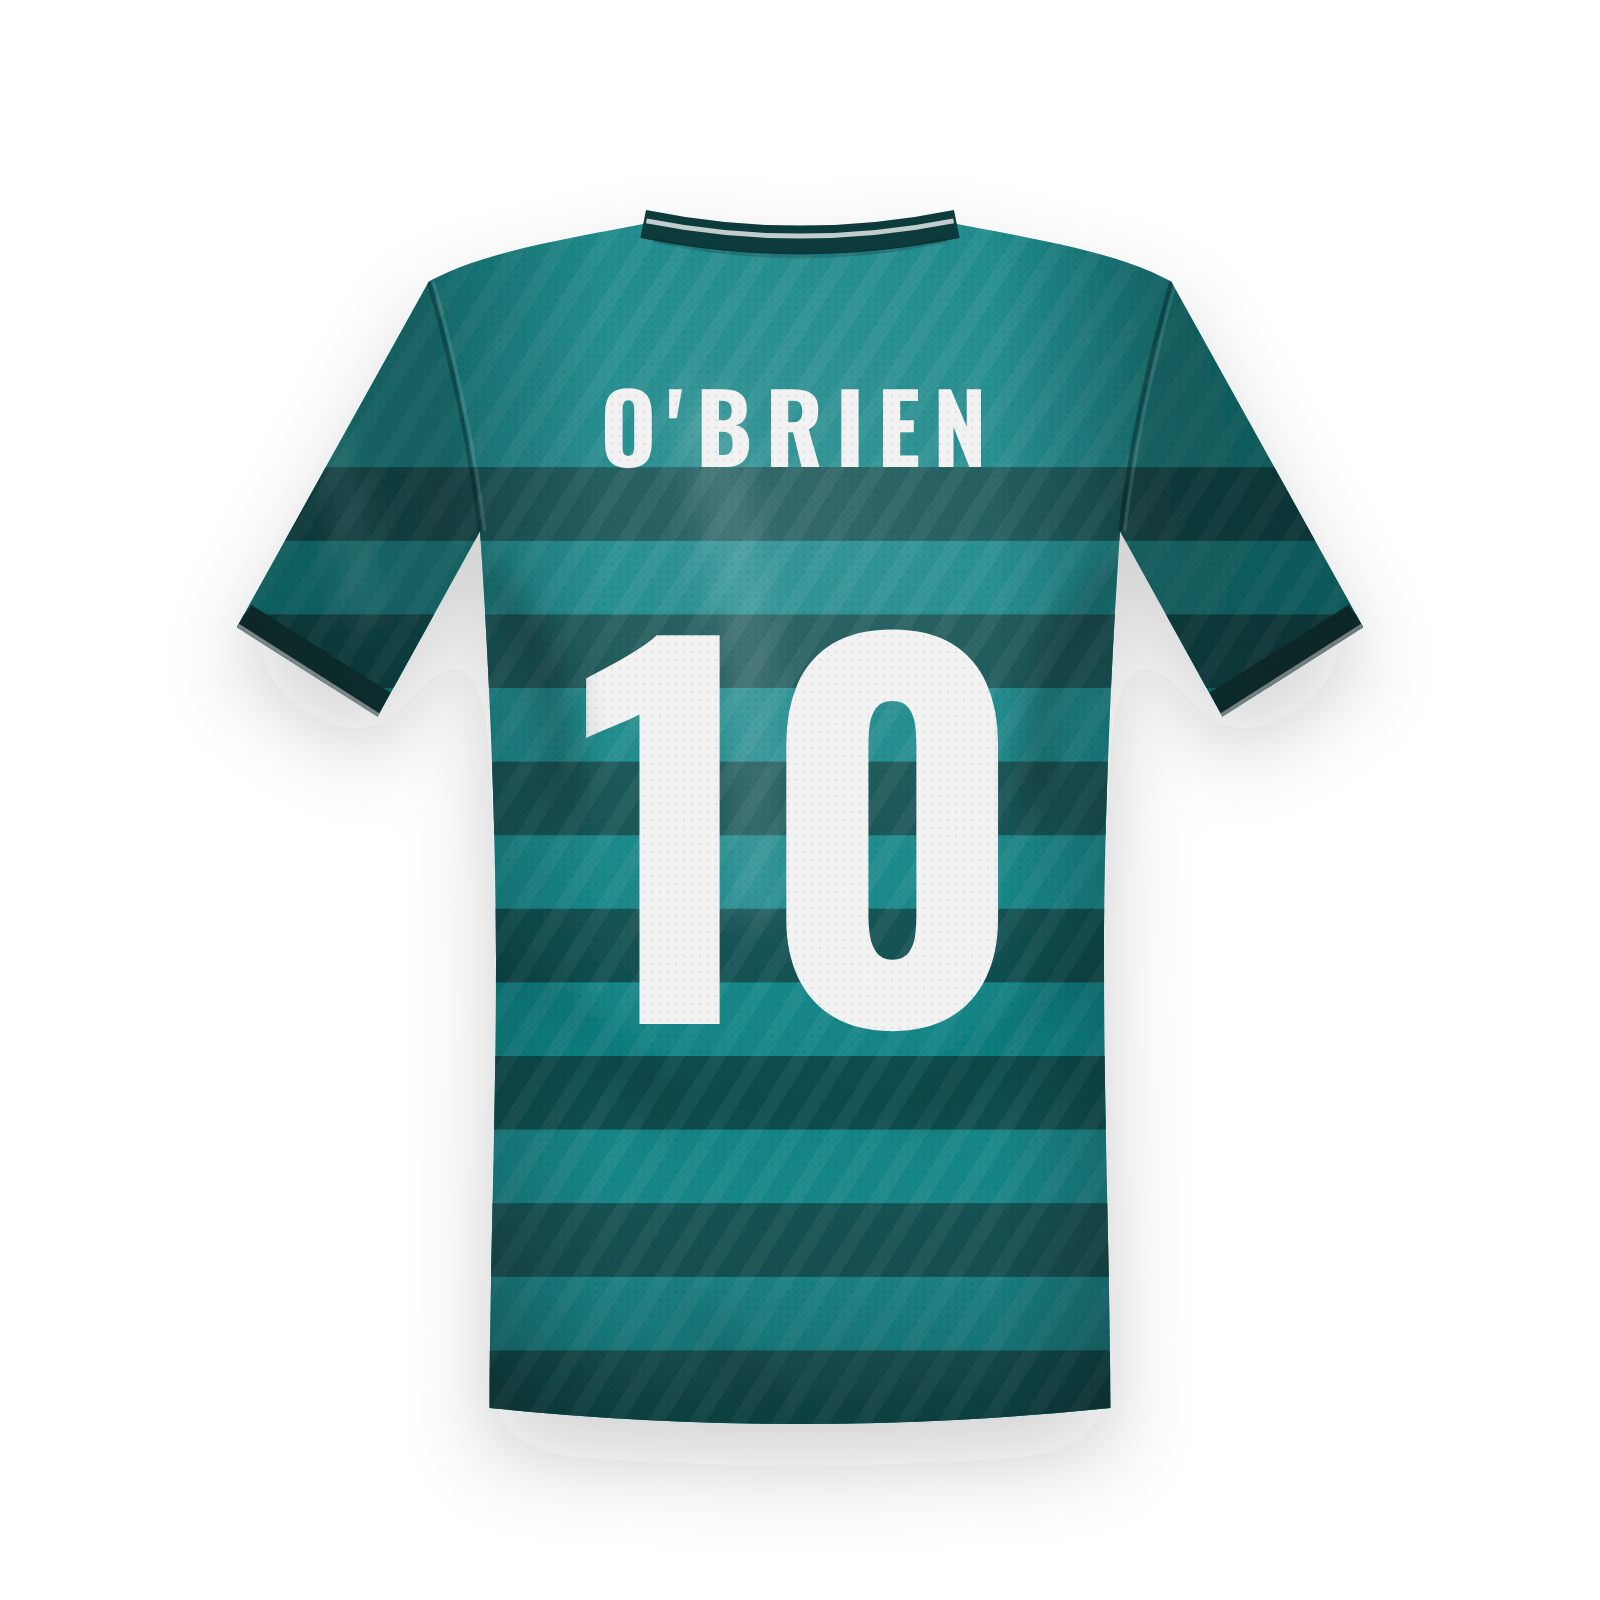
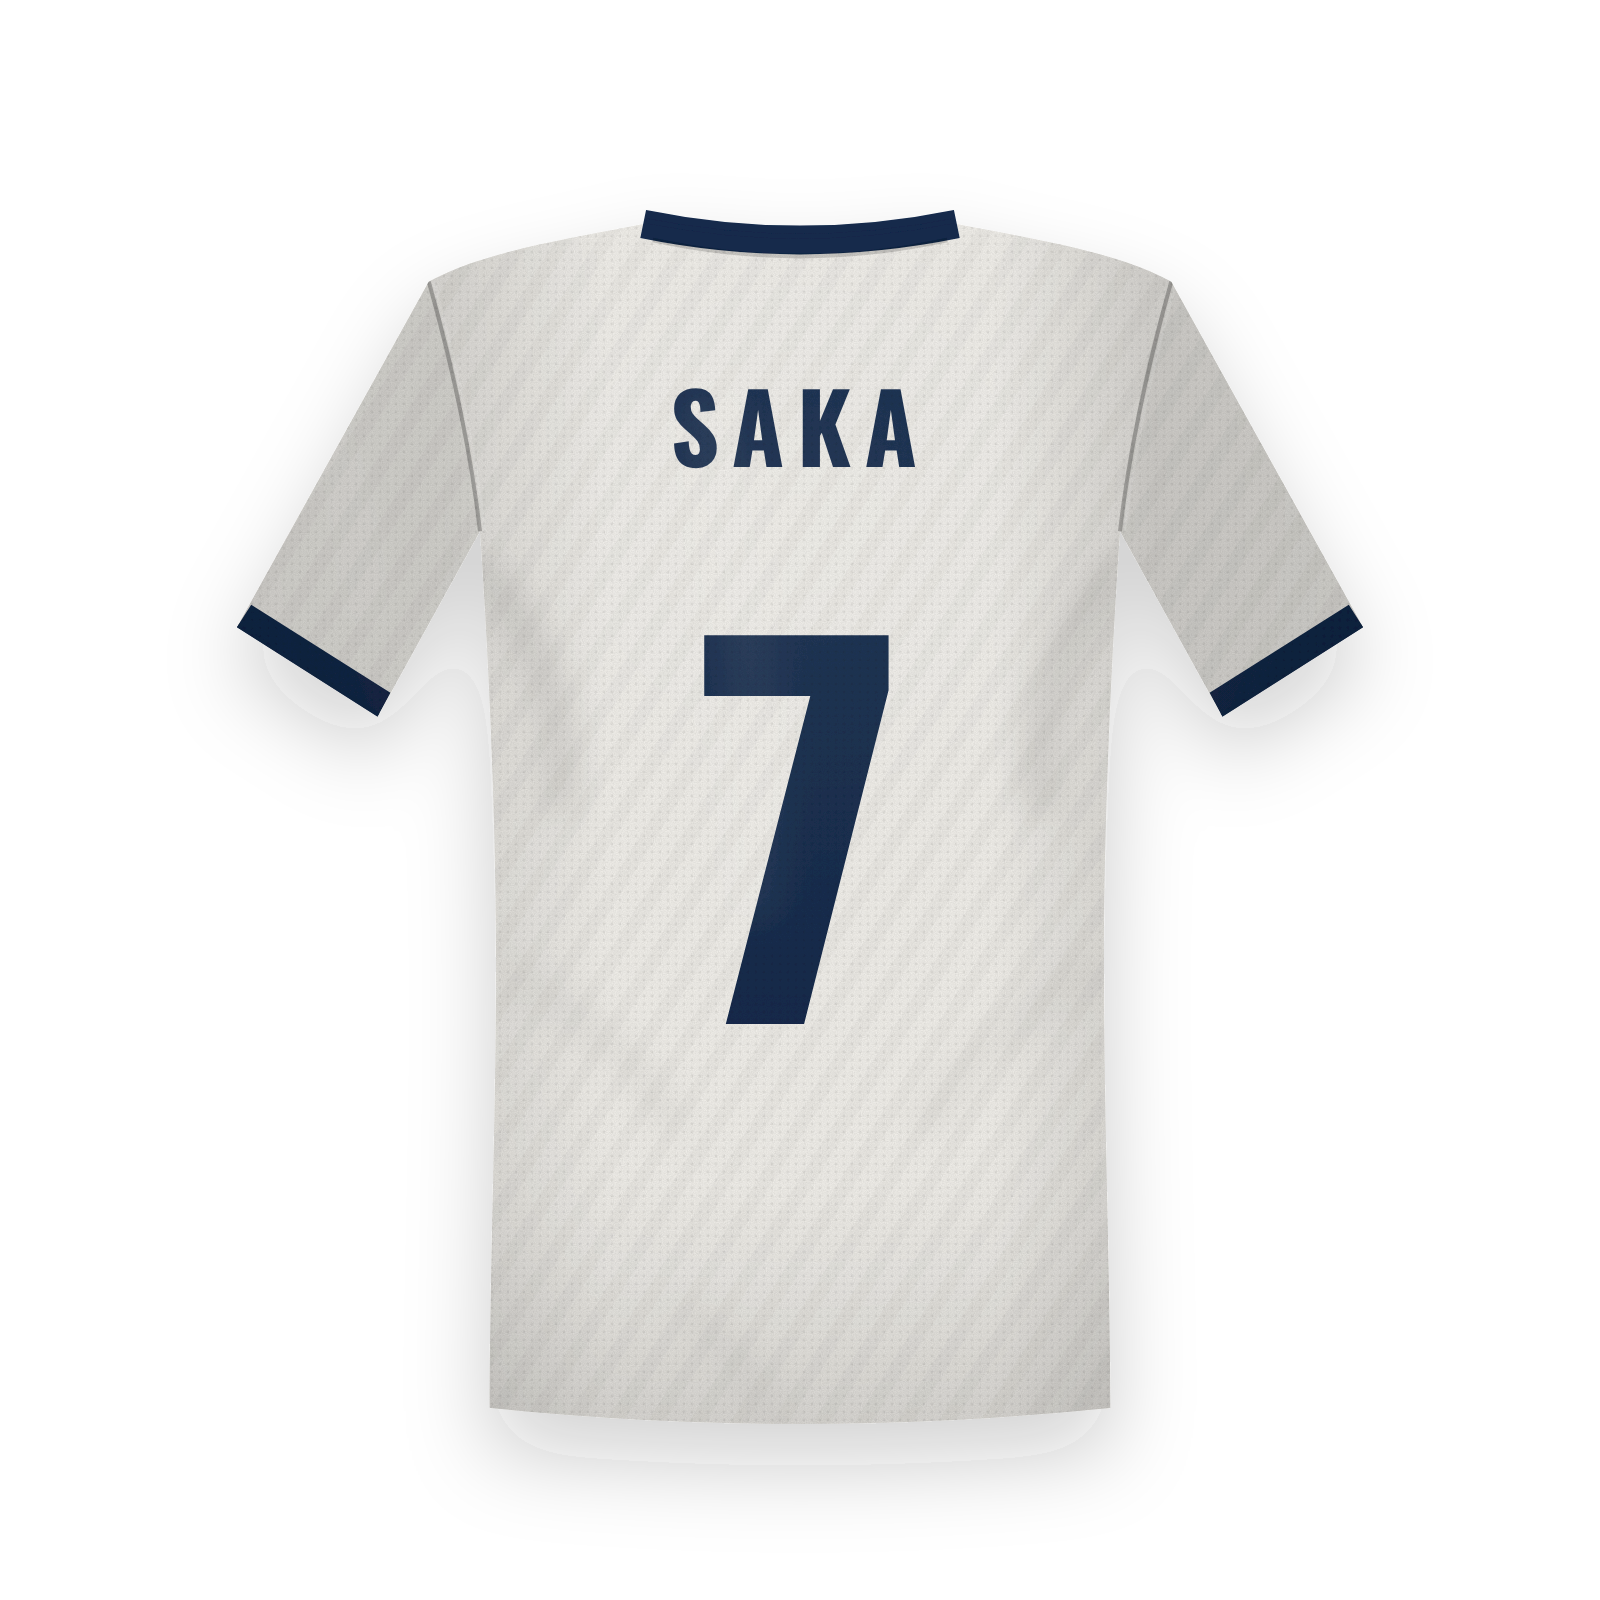
Preview on the real kit: front first, turns to the back and prints the name on the photo
With a blank back photo (metafield kit_printer.back_image) the box shows the kit's own pictures, like a club
shop: it turns over as soon as the buyer starts on a name and prints it in the same place and font as the
product shots. Without one, the drawn shirt. Bigger layout, Name and Number side by side, Front/Back toggle.
Capital City's third kit is white with SAKA 7; light shirts get softer shading.

Changed region(s): [[0.1562, 0.125, 0.8438, 0.9062]]

diff --git a/extensions/kit-printer-block/assets/kit-printer.css b/extensions/kit-printer-block/assets/kit-printer.css
@@ -1,19 +1,37 @@
-.kp { margin: 1rem 0; padding: 1rem; border: 1px solid rgba(0,0,0,.15); border-radius: 8px; }
-.kp__heading { margin: 0 0 .75rem; font-weight: 600; display: flex; justify-content: space-between; gap: 1rem; }
-.kp__price { font-weight: 400; opacity: .8; }
-.kp__body { display: flex; gap: 1rem; align-items: center; flex-wrap: wrap; }
 /* Oswald (SIL Open Font License), so the preview prints in a kit font on every theme. It's inlined because a theme
    app extension's assets may only be .jpg, .jpeg, .json, .js, .css, .png, .svg or .wasm: a .woff2 file fails the deploy. */
[1 lines of base64/hex data omitted]
-.kp__shirt { width: 150px; height: auto; flex: none; filter: drop-shadow(0 6px 8px rgba(0,0,0,.18)); }
+.kp { margin: 1.25rem 0; padding: 1.25rem; border: 1px solid rgba(0,0,0,.12); border-radius: 10px; display: grid; gap: .9rem; }
+.kp__heading { margin: 0; font-weight: 700; font-size: 1.05rem; display: flex; justify-content: space-between; gap: 1rem; text-transform: uppercase; letter-spacing: .02em; }
+.kp__price { font-weight: 500; opacity: .75; text-transform: none; }
+
+/* The real kit, front and back, on a card that turns over. */
+.kp__stage { display: grid; gap: .6rem; justify-items: center; }
+.kp__card { position: relative; width: 100%; max-width: 440px; aspect-ratio: 1; transform-style: preserve-3d; transition: transform .7s cubic-bezier(.2,.75,.2,1); }
+.kp__stage.is-back .kp__card { transform: rotateY(180deg); }
+.kp__face { position: absolute; inset: 0; backface-visibility: hidden; -webkit-backface-visibility: hidden; border-radius: 8px; overflow: hidden; background: #efefec; }
+.kp__face--back { transform: rotateY(180deg); }
+.kp__photo { display: block; width: 100%; height: 100%; object-fit: cover; }
+.kp__print { position: absolute; inset: 0; width: 100%; height: 100%; }
+.kp__sides { display: inline-flex; border: 1px solid rgba(0,0,0,.15); border-radius: 999px; padding: 3px; }
+.kp__sides button { border: 0; background: none; padding: .35rem .9rem; border-radius: 999px; font: inherit; font-size: .85rem; cursor: pointer; }
+.kp__sides button[aria-pressed="true"] { background: #101010; color: #fff; }
+@media (prefers-reduced-motion: reduce) { .kp__card { transition: none; } }
+
+/* The drawn shirt, for a kit without a blank back photo. */
+.kp__shirt { width: 180px; height: auto; justify-self: center; filter: drop-shadow(0 6px 8px rgba(0,0,0,.18)); }
 .kp__cloth { fill: var(--kp-shirt, #c8102e); stroke: rgba(0,0,0,.18); stroke-width: 4; }
 .kp__shade { fill: #000; opacity: .1; }
 .kp__collar { fill: none; stroke: var(--kp-ink, #fff); stroke-width: 18; }
+
+/* The print: the same font, size and place as the product pictures (store/make-kits.cjs), so it lands where a real print would. */
 .kp__name { fill: var(--kp-ink, #fff); font: 700 60px/1 "Kit Printer", "Arial Narrow", Arial, sans-serif; letter-spacing: 8px; }
 .kp__number { fill: var(--kp-ink, #fff); font: 700 300px/1 "Kit Printer", "Arial Narrow", Arial, sans-serif; }
-.kp__fields { flex: 1; min-width: 180px; display: grid; gap: .5rem; }
-.kp__label { display: grid; gap: .25rem; font-size: .9rem; }
-.kp__input { padding: .6rem .7rem; font-size: 1rem; text-transform: uppercase; border: 1px solid rgba(0,0,0,.3); border-radius: 6px; }
+
+.kp__fields { display: grid; grid-template-columns: 2fr 1fr; gap: .75rem; }
+.kp__label { display: grid; gap: .3rem; font-size: .85rem; font-weight: 600; }
+.kp__input { width: 100%; box-sizing: border-box; padding: .75rem .8rem; font-size: 1.05rem; text-transform: uppercase; letter-spacing: .04em; border: 1px solid rgba(0,0,0,.25); border-radius: 6px; }
+.kp__input:focus { outline: 2px solid #101010; outline-offset: 1px; }
 .kp__input[aria-invalid="true"] { border-color: #c0392b; }
-.kp__hint { margin: 0; font-size: .8rem; opacity: .7; }
+.kp__hint { margin: 0; font-size: .8rem; opacity: .65; }
 .kp__error { margin: 0; font-size: .9rem; color: #c0392b; }

diff --git a/extensions/kit-printer-block/assets/kit-printer.js b/extensions/kit-printer-block/assets/kit-printer.js
@@ -11,6 +11,15 @@ function setUp(box) {
   const nameOut = box.querySelector("[data-kp-name-out]");
   const numberOut = box.querySelector("[data-kp-number-out]");
   const error = box.querySelector("[data-kp-error]");
+  const stage = box.querySelector("[data-kp-stage]");
+
+  // Turn the kit over: the front to start, the back as soon as the buyer works on a print, like a club shop does.
+  const turn = (toBack) => {
+    if (!stage) return;
+    stage.classList.toggle("is-back", toBack);
+    stage.querySelectorAll("[data-kp-side]").forEach((b) => b.setAttribute("aria-pressed", String((b.dataset.kpSide === "back") === toBack)));
+  };
+  stage?.querySelectorAll("[data-kp-side]").forEach((b) => b.addEventListener("click", () => turn(b.dataset.kpSide === "back")));
 
   // The block sits outside the theme's add-to-cart form, so point the inputs at that form.
   const form = findCartForm(box);
@@ -38,6 +47,7 @@ function setUp(box) {
   for (const input of [name, number]) {
     input.addEventListener("input", update);
     input.addEventListener("blur", update);
+    input.addEventListener("focus", () => turn(true));
   }
 
   // Runs before the theme's own add-to-cart handler, so a bad print never leaves the page.

diff --git a/test/block.test.js b/test/block.test.js
@@ -57,3 +57,16 @@ test("the block's assets are only file types Shopify accepts (a .woff2 here fail
   assert.ok(files.length > 0);
   for (const f of files) assert.match(f, allowed, f);
 });
+
+test("with a blank back photo the preview is the real kit, front and back; without one, a drawn shirt", () => {
+  assert.match(block, /product\.metafields\.kit_printer\.back_image\.value/);
+  assert.match(block, /data-kp-stage/);
+  assert.match(block, /kp__face--front[\s\S]*featured_image[\s\S]*kp__face--back[\s\S]*back_photo/);
+  assert.match(block, /\{%- else -%\}[\s\S]*class="kp__shirt"/);
+  // the print sits where the product pictures put it, so the preview matches the photos
+  const kits = read("store/make-kits.cjs");
+  for (const [x, y, size] of [["500", "292", "60"], ["500", "640", "300"]]) {
+    assert.ok(kits.includes(`x="${x}" y="${y}" font-size="${size}"`), `make-kits prints at ${y}`);
+    assert.ok(block.includes(`x="${x}" y="${y}"`), `block prints at ${y}`);
+  }
+});

diff --git a/store/README.md b/store/README.md
@@ -9,6 +9,7 @@
 |---|---|
 | `products.csv` | The four kits, sizes S to XL, $89.99, print price $15.00, and each kit's shirt and print colours (the box's preview uses them). Import in Products, Import. |
 | `images/<kit>-front.png`, `-back.png` | Product photos, 1600 by 1600. Front first, then the back with a printed name. |
+| `images/<kit>-back-blank.png` | The back with nothing printed. Not a product photo: it goes in each kit's `kit_printer.back_image` metafield (type File), and the product page preview prints the buyer's name on it, turning from the front to the back as they type. |
 | `images/banner-plain.png` | Homepage hero image, no text (the theme's heading goes on top). |
 | `images/banner.png` | The same with the text baked in, for the README and social previews only. |
 | `images/logo.png` | The "KITS by ZIZO" wordmark. |
@@ -32,6 +33,6 @@
    - **About:** "Kits by Zizo is a demo store for Kit Printer, a Shopify app I built that adds names and numbers to football kits. The kits are original designs for made-up clubs."
 3. **Collection "Kits":** the four kits (tag `kits`).
 4. **Navigation:** Home, Kits. The footer gets the About line and nothing else of note.
-5. **Products:** from `products.csv`, each with its front then back image. Alt text: "Front of the <kit>" and "Back of the <kit>, printed with <NAME> <number>" (Kanata FC home: SALAH 11; away: RONALDO 7; Rideau United: MESSI 10; Capital City: O'BRIEN 10).
+5. **Products:** from `products.csv`, each with its front then back image. Alt text: "Front of the <kit>" and "Back of the <kit>, printed with <NAME> <number>" (Kanata FC home: SALAH 11; away: RONALDO 7; Rideau United: MESSI 10; Capital City: SAKA 7).
 6. **The old "Home kit":** set to **Archived** (not deleted). **"Football socks":** rename to "Kanata FC Socks". Keep it at $14.99 with no print price: it's the "can't be printed" example.
 7. **Password page message:** "Kits by Zizo: the demo store for Kit Printer."
